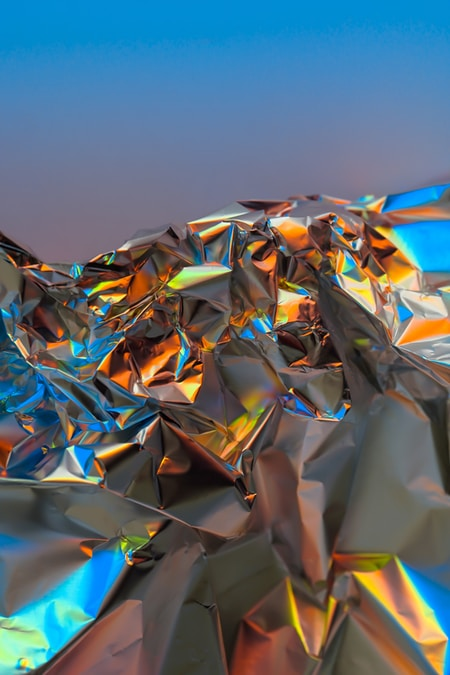
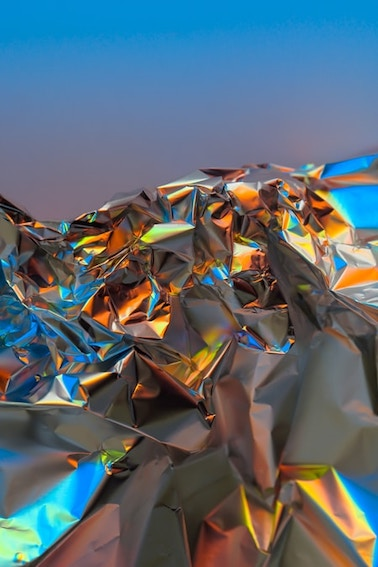
changed layout, need to change back

diff --git a/_components.scss b/_components.scss
@@ -39,6 +39,8 @@
     align-items: center;
     flex-direction: row;
     flex-wrap: wrap;
+    width: 40%;
+    height: 60%;
   
 
 }
@@ -189,5 +191,3 @@ margin: 50px; */
     justify-content: space-evenly;
     padding: 20px;
 }
-
-

diff --git a/main.css b/main.css
@@ -50,6 +50,8 @@ a {
   align-items: center;
   flex-direction: row;
   flex-wrap: wrap;
+  width: 40%;
+  height: 60%;
 }
 
 /*    width: 259px;

diff --git a/main.scss b/main.scss
@@ -4,4 +4,3 @@
 @import "./layout";
 @import "./pages";
 @import "./themes";
-@import "./vendors"
